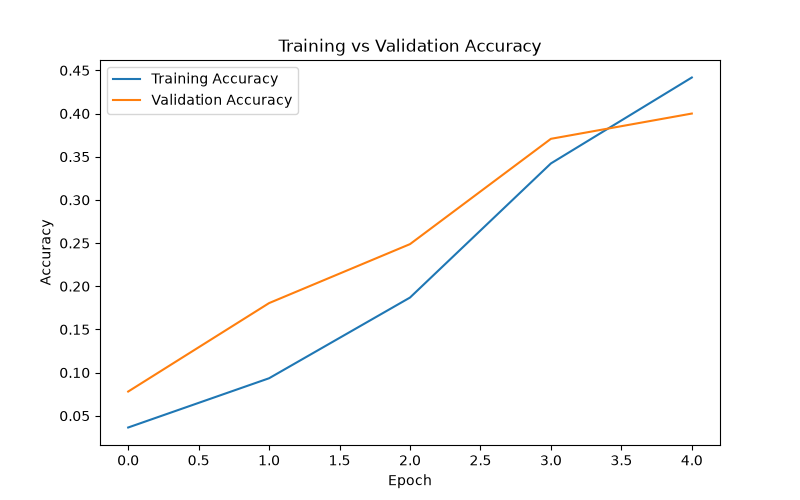
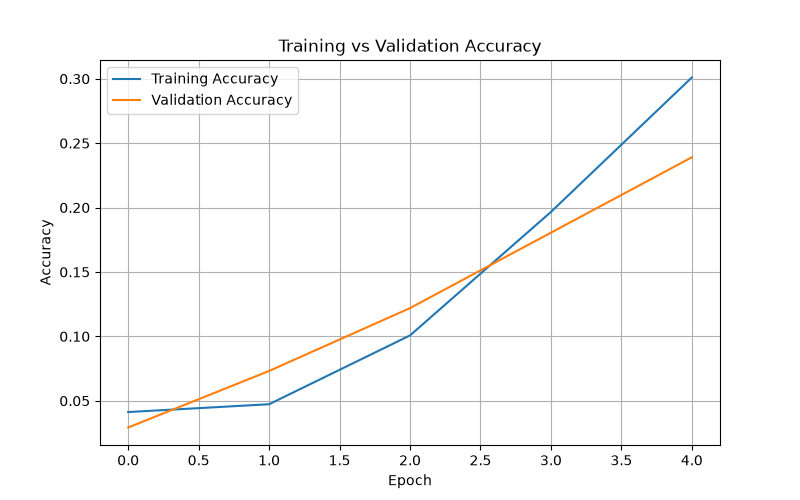
Restored dataset, synchronized class labels, and improved model training

diff --git a/src/train_model.py b/src/train_model.py
@@ -1,5 +1,7 @@
 import tensorflow as tf
 from tensorflow.keras import layers, models
+import matplotlib.pyplot as plt
+import json
 
 # Dataset path
 dataset_path = "plantvillage dataset/color"
@@ -24,36 +26,51 @@ val_ds = tf.keras.utils.image_dataset_from_directory(
     batch_size=32
 )
 
+# Print Class Information
+print("\n===================================")
+print("Number of Classes:", len(train_ds.class_names))
+print("===================================")
+
+for i, class_name in enumerate(train_ds.class_names):
+    print(f"{i}: {class_name}")
+
+# Save Class Names
+with open("class_names.json", "w") as f:
+    json.dump(train_ds.class_names, f)
+
+print("\nClass names saved as class_names.json")
+
 # Build CNN Model
 model = models.Sequential([
     layers.Input(shape=(224, 224, 3)),
     layers.Rescaling(1./255),
 
-    layers.Conv2D(32, (3,3), activation='relu'),
+    layers.Conv2D(32, (3,3), activation="relu"),
     layers.MaxPooling2D(2,2),
 
-    layers.Conv2D(64, (3,3), activation='relu'),
+    layers.Conv2D(64, (3,3), activation="relu"),
     layers.MaxPooling2D(2,2),
 
-    layers.Conv2D(128, (3,3), activation='relu'),
+    layers.Conv2D(128, (3,3), activation="relu"),
     layers.MaxPooling2D(2,2),
 
     layers.Flatten(),
 
-    layers.Dense(128, activation='relu'),
+    layers.Dense(128, activation="relu"),
     layers.Dropout(0.5),
 
-    layers.Dense(38, activation='softmax')
+    # Automatically matches the dataset classes
+    layers.Dense(len(train_ds.class_names), activation="softmax")
 ])
 
 # Compile Model
 model.compile(
-    optimizer='adam',
-    loss='sparse_categorical_crossentropy',
-    metrics=['accuracy']
+    optimizer="adam",
+    loss="sparse_categorical_crossentropy",
+    metrics=["accuracy"]
 )
 
-print("Training Started...\n")
+print("\nTraining Started...\n")
 
 # Train Model
 history = model.fit(
@@ -61,7 +78,6 @@ history = model.fit(
     validation_data=val_ds,
     epochs=5
 )
-import matplotlib.pyplot as plt
 
 # Accuracy Plot
 plt.figure(figsize=(8,5))
@@ -69,8 +85,9 @@ plt.plot(history.history["accuracy"], label="Training Accuracy")
 plt.plot(history.history["val_accuracy"], label="Validation Accuracy")
 plt.xlabel("Epoch")
 plt.ylabel("Accuracy")
-plt.legend()
 plt.title("Training vs Validation Accuracy")
+plt.legend()
+plt.grid(True)
 plt.savefig("accuracy_plot.png")
 plt.show()
 
@@ -80,13 +97,17 @@ plt.plot(history.history["loss"], label="Training Loss")
 plt.plot(history.history["val_loss"], label="Validation Loss")
 plt.xlabel("Epoch")
 plt.ylabel("Loss")
-plt.legend()
 plt.title("Training vs Validation Loss")
+plt.legend()
+plt.grid(True)
 plt.savefig("loss_plot.png")
 plt.show()
 
 # Save Model
 model.save("crop_disease_model.keras")
 
-print("\nModel Training Completed Successfully!")
+print("\n===================================")
+print("Model Training Completed Successfully!")
 print("Model saved as crop_disease_model.keras")
+print("Class names saved as class_names.json")
+print("===================================")

diff --git a/src/predict.py b/src/predict.py
@@ -1,0 +1,35 @@
+import tensorflow as tf
+import numpy as np
+import json
+from tensorflow.keras.preprocessing import image
+
+# Load Trained Model
+model = tf.keras.models.load_model("crop_disease_model.keras")
+
+# Load Class Names
+with open("class_names.json", "r") as f:
+    class_names = json.load(f)
+
+# Test Image Path
+image_path = "test_images/apple_scab1.JPG"   # Change this to your test image
+
+# Load and Preprocess Image
+img = image.load_img(image_path, target_size=(224, 224))
+img_array = image.img_to_array(img)
+img_array = np.expand_dims(img_array, axis=0)
+img_array = img_array / 255.0
+
+# Predict
+prediction = model.predict(img_array, verbose=0)
+
+predicted_index = np.argmax(prediction)
+confidence = np.max(prediction)
+
+# Display Result
+print("=" * 50)
+print("Crop Disease Prediction")
+print("=" * 50)
+print("Image:", image_path)
+print("Predicted Class :", class_names[predicted_index])
+print(f"Confidence : {confidence * 100:.2f}%")
+print("=" * 50)